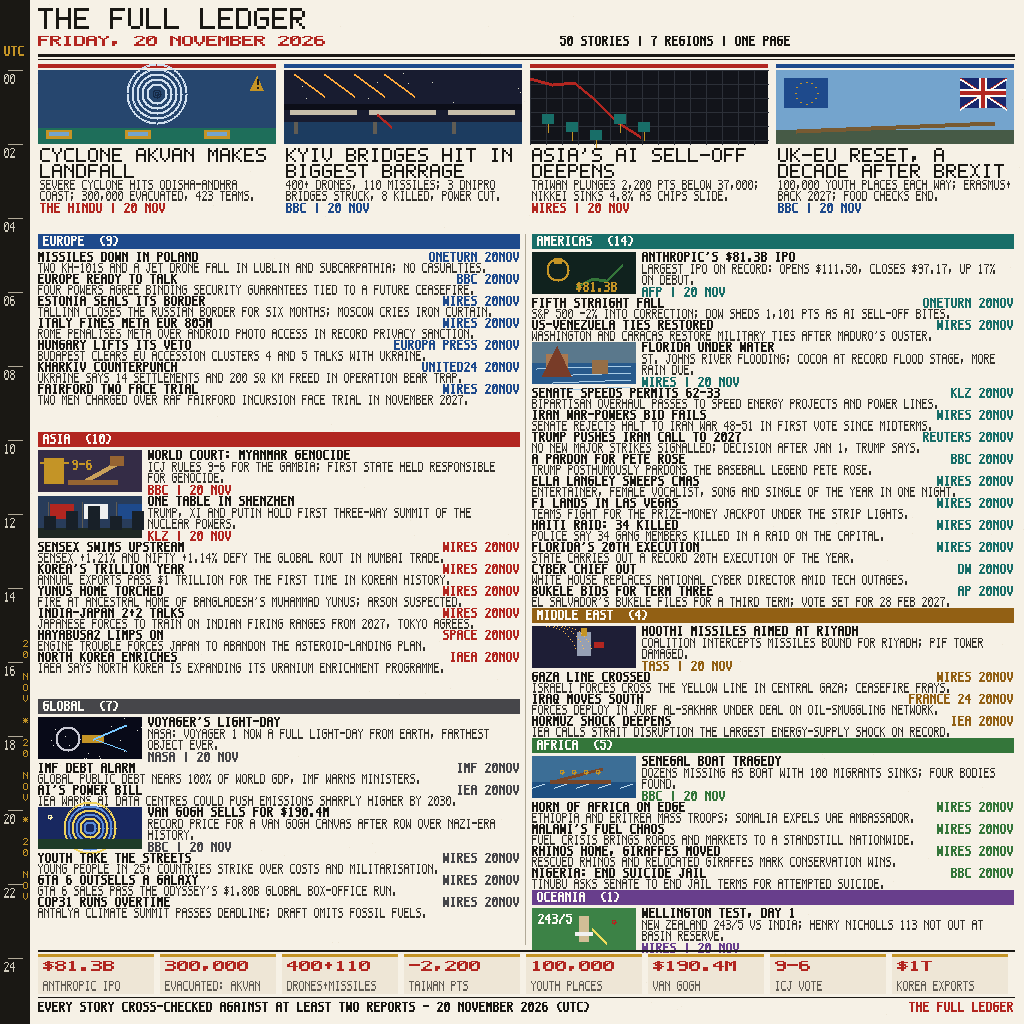
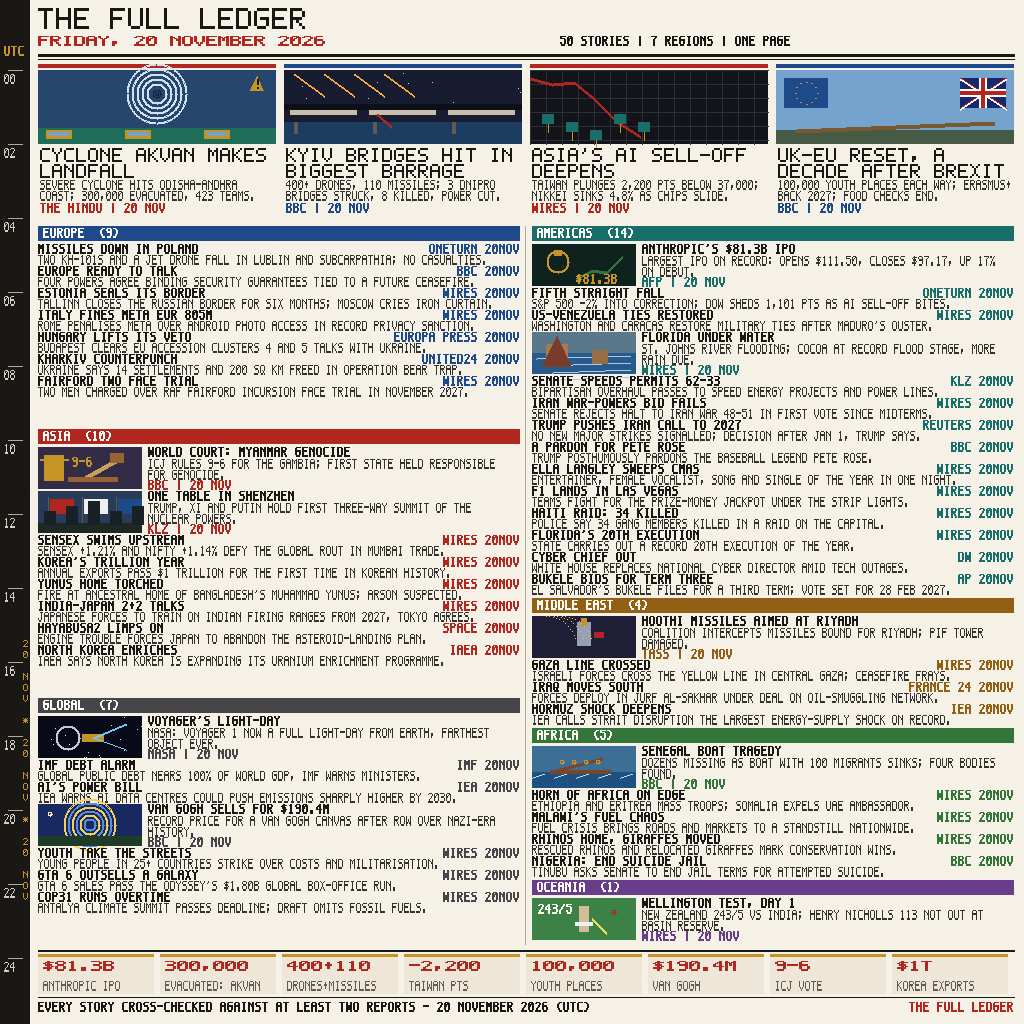
NI-20 entry #3 revision: fix OCEANIA tag clearance + hero row compaction (2 revision passes)

Changed region(s): [[0.0312, 0.2188, 1.0, 0.9375], [0.3438, 0.4688, 0.375, 0.5]]

diff --git a/main.py b/main.py
@@ -517,7 +517,7 @@ def main():
     line(px, X0, 59, XR, 59, INK, 1)
 
     # ---- hero row
-    hy, hh = 64, 162
+    hy, hh = 64, 154
     hw = (XR - X0 - 3 * 8) // 4
     for i, (reg, head, deck, src) in enumerate(HEROES):
         x = X0 + i * (hw + 8)
@@ -553,7 +553,7 @@ def main():
     def block_height(items):
         hgt = 18
         for it in items:
-            hgt += 46 if it[1] in PANEL_KIND else 22
+            hgt += 44 if it[1] in PANEL_KIND else 22
         return hgt
 
     for ci, blocks in enumerate(columns):
@@ -580,8 +580,8 @@ def main():
                     dl = wrap(deck, tw // 6 - 2)
                     for j, ln in enumerate(dl[:2]):
                         draw_text(px, tx, y + 12 + j * 11, ln, (52, 50, 44))
-                    draw_text(px, tx, y + 35, src.upper() + " | 20 NOV", col, bold=True)
-                    y += ph + 4
+                    draw_text(px, tx, y + 33, src.upper() + " | 20 NOV", col, bold=True)
+                    y += ph + 2
                 else:
                     tag = src.upper() + " 20NOV"
                     limit = (col_w - text_w(tag, True) - 12) // 7
